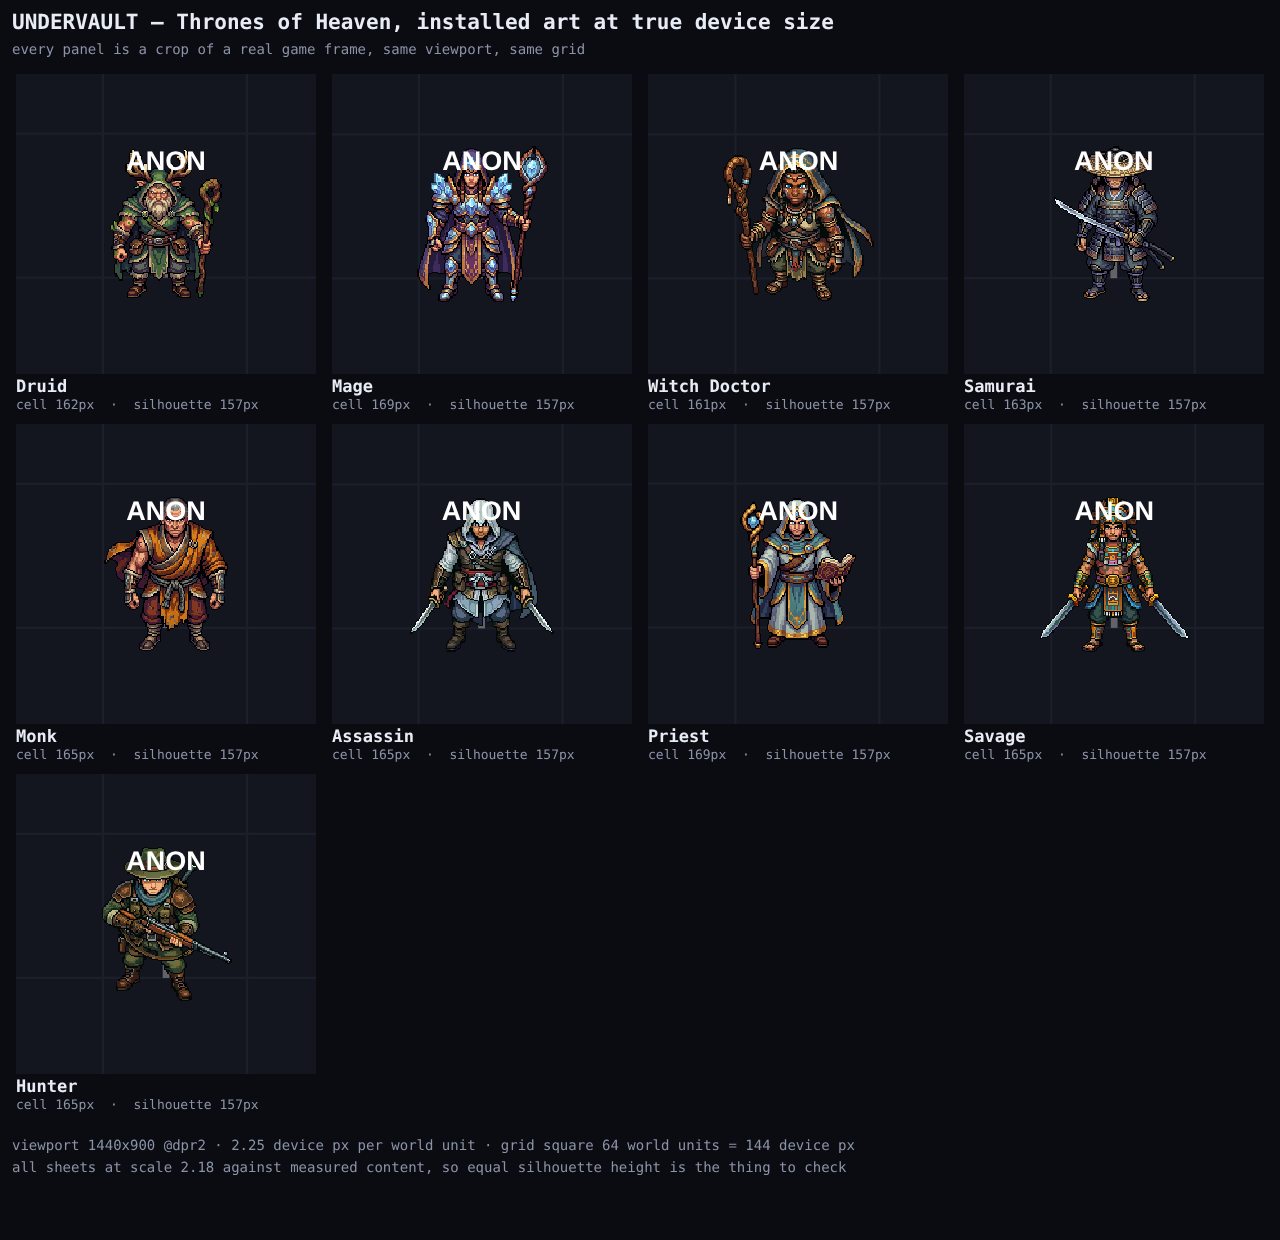
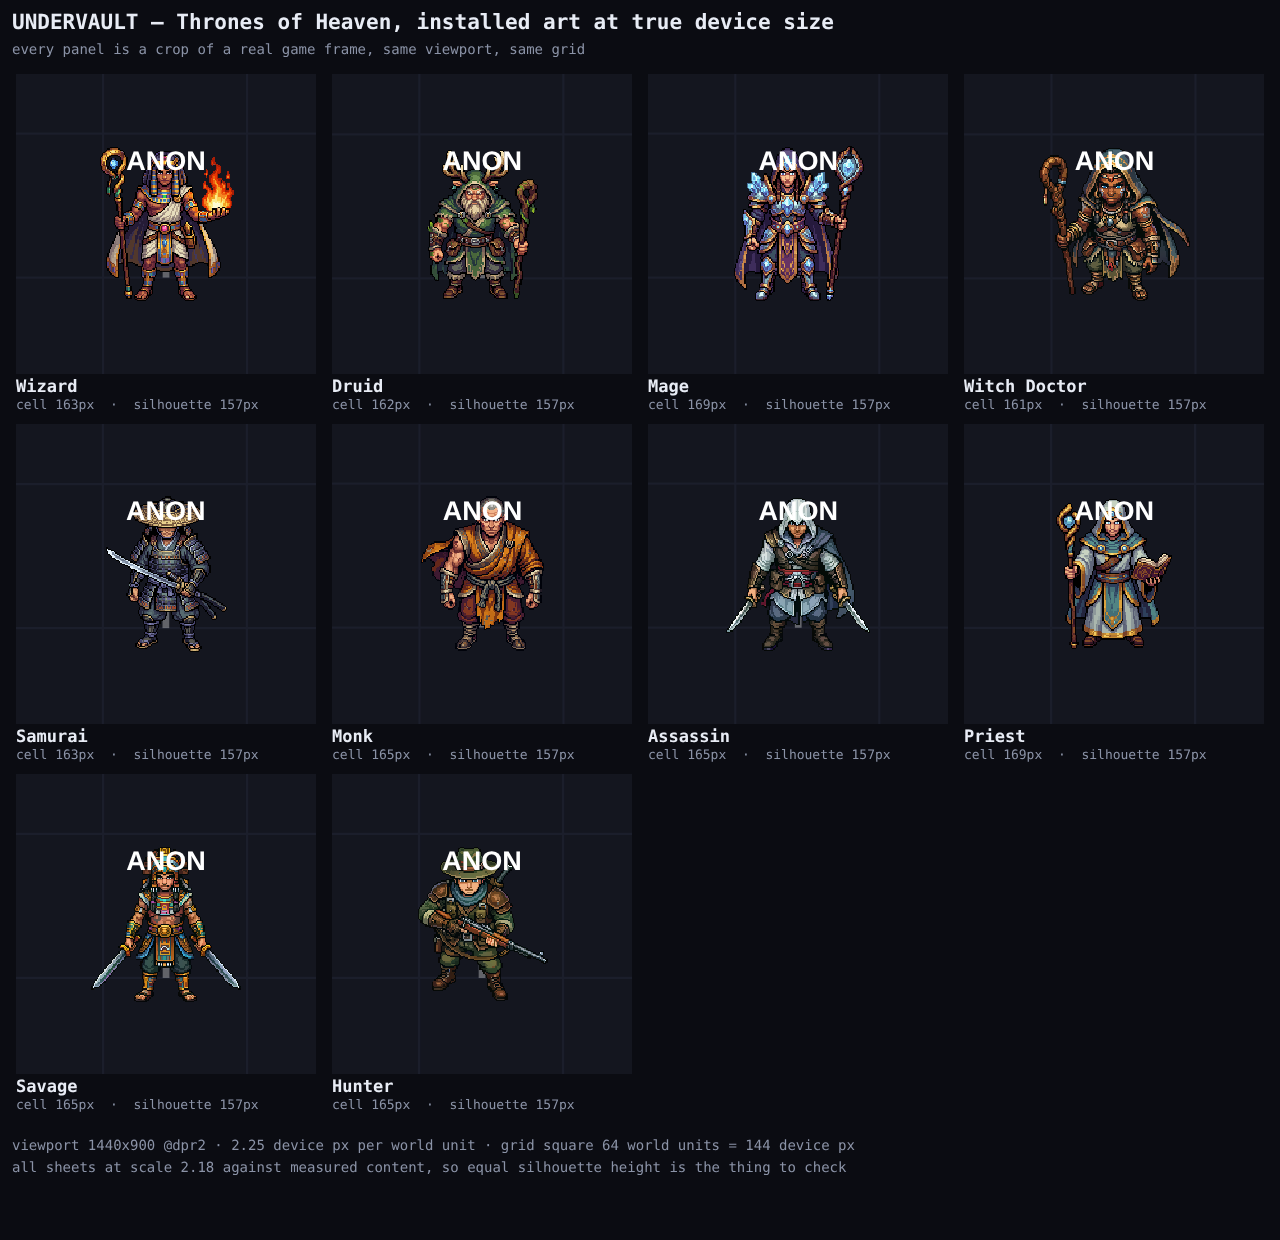
Wizard installed at 2.18 — ten characters, and the garment claim holds from both sides
Ninth of the 13. Eight 248x248 RGBA facings supplied 2026-08-05 across two
messages of four; not assembled until all eight were present. Committed verbatim
under docs/art-review/batch1/wizard/sources/ at the md5s they arrived with.

  E  e4bbf677d620884641a5d29209e3d097    W  6512512f7e2d21fcff35b066eb9a5e6b
  SE f4910ec8e0f8c73c6b79d11b5f73836a    NW 4af91db22f2b38c135cd3b075c16c812
  S  12ccb326484e55a30272c2163942cbb8    N  c207c7ced35443301b50e603e2ff4486
  SW 4f8ddc3a716c106205b80d8e8be2e38d    NE fa7ea256bfc1d8428215b27acced9c74

assets/sprites/char/toh_wizard.png, 128x1024, directions 8, content [105,123],
scale 2.18. Autocrop 248x248 -> 105x123, no resampling.

BRANCH. patch-art-pipeline was MERGED AND DELETED while the beast patch was in
flight — PR #24 took Savage through Mage into main, which is now 5abb3dd. A
merged PR is finished, so this is the same branch NAME recreated from
origin/main, not a continuation: new branch, new PR. The stale local ref was
pruned. patch-hunter-melee-beast is untouched at 2f19fe8 and is now behind main
by that whole run; it will need a merge before it lands.

SIZE. Ten sheets, cell fills 93.0-97.7%, four source canvases, cells spanning
160.7 to 168.8 device px. Silhouettes all 157.0, identical to a tenth of a pixel.
Per-facing spread 3.4%, mid-range.

GATE: structural only, passes clean, nothing waived.

THE GARMENT CLAIM NOW HOLDS FROM BOTH DIRECTIONS. Standing version after the
[…]

diff --git a/docs/art-review/batch1/README.md b/docs/art-review/batch1/README.md
@@ -1,6 +1,6 @@
 # Batch 1 — Thrones of Heaven
 
-Thirteen characters to install. **Eight are in.**
+Thirteen characters to install. **Nine are in.**
 
 | | character | id | status |
 |---|---|---|---|
@@ -12,7 +12,8 @@ Thirteen characters to install. **Eight are in.**
 | ✓ | Priest | `char.toh_priest` | installed |
 | ✓ | Monk | `char.toh_monk` | installed |
 | ✓ | Mage | `char.toh_mage` | installed |
-| | Blacksmith · Wizard · Necromancer · Bard · Sundian | | awaiting art (5) |
+| ✓ | Wizard | `char.toh_wizard` | installed |
+| | Blacksmith · Necromancer · Bard · Sundian | | awaiting art (4) |
 
 The Druid (`char.toh_druid`) is the style anchor and is not part of batch 1 —
 see [`../druid/README.md`](../druid/README.md) and
@@ -40,13 +41,14 @@ artifact of padding.
 | Hunter | 2.18 | 1.0492 | 101×122 | 164.7 | **157.0** | **−0.00%** |
 | Priest | 2.18 | 1.0756 | 88×119 | **168.8** | **157.0** | **−0.00%** |
 | Mage | 2.18 | 1.0756 | 99×119 | **168.8** | **157.0** | **−0.00%** |
+| Wizard | 2.18 | 1.0407 | 105×123 | 163.3 | **157.0** | **−0.00%** |
 
 Measured off the renderer's own `drawImage` in a real arena. Nothing is more
 than 5% off the Druid.
 
-Nine sheets, nine content boxes, cell fills from **93.0% to 97.7%**, **four**
+Ten sheets, ten content boxes, cell fills from **93.0% to 97.7%**, **four**
 source canvases: 240×240 (Mage), 244×244 (Savage, Priest), 248×248 (Druid,
-Assassin, Samurai, Monk), 256×256 (Hunter, Witch Doctor).
+Assassin, Samurai, Monk, Wizard), 256×256 (Hunter, Witch Doctor).
 
 The spread across **cells** is now 160.7 to 168.8 device px — 8.1px, opened up
 by the Priest and matched exactly by the Mage, who lands on the same 119px
@@ -78,6 +80,7 @@ would render its other seven short. Measured:
 | Priest | 118 118 114 115 119 117 113 112 | 119 | 112 | 5.9% |
 | Monk | 122 122 120 122 122 120 117 120 | 122 | 117 | 4.1% |
 | Mage | 119 119 118 118 119 117 116 117 | 119 | 116 | **2.6%** |
+| Wizard | 121 121 121 123 123 121 120 119 | 123 | 119 | **3.4%** |
 
 Four sit in the same ~5% band; the Savage (1.6%), Samurai (2.4%) and Mage (2.6%)
 are notably tighter — their poses barely change height between facings, where the
@@ -267,12 +270,31 @@ messages of four; not assembled until all eight were present.
 Assembled to `assets/sprites/char/toh_mage.png`, 128×1024, `directions: 8`,
 `content: [99, 119]`, `scale: 2.18`. Autocrop 240×240 → 110×120.
 
+### Wizard
+
+Supplied 2026-08-05, eight **248×248** RGBA PNGs, in two messages of four; not
+assembled until all eight were present.
+
+| facing | md5 | file |
+|---|---|---|
+| E | `e4bbf677d620884641a5d29209e3d097` | `wizard/sources/east.png` |
+| SE | `f4910ec8e0f8c73c6b79d11b5f73836a` | `wizard/sources/southeast.png` |
+| S | `12ccb326484e55a30272c2163942cbb8` | `wizard/sources/south.png` |
+| SW | `4f8ddc3a716c106205b80d8e8be2e38d` | `wizard/sources/southwest.png` |
+| W | `6512512f7e2d21fcff35b066eb9a5e6b` | `wizard/sources/west.png` |
+| NW | `4af91db22f2b38c135cd3b075c16c812` | `wizard/sources/northwest.png` |
+| N | `c207c7ced35443301b50e603e2ff4486` | `wizard/sources/north.png` |
+| NE | `fa7ea256bfc1d8428215b27acced9c74` | `wizard/sources/northeast.png` |
+
+Assembled to `assets/sprites/char/toh_wizard.png`, 128×1024, `directions: 8`,
+`content: [105, 123]`, `scale: 2.18`. Autocrop 248×248 → 105×123.
+
 ## What the contact sheet shows — look at this, not at numbers
 
 Size is settled and mechanical. The sheet is for everything else.
 
-**Nine characters. Five agree, four do not — and they disagree in three
-different ways.**
+**Ten characters. Six agree, four do not — and they disagree in three different
+ways.**
 
 | | | |
 |---|---|---|
@@ -285,6 +307,7 @@ different ways.**
 | **Priest** | **pale** | seafoam and cream robes, white hood, gold trim |
 | **Savage** | **high-chroma** | orange, turquoise, brass |
 | **Mage** | **cool, not earthy** | violet cloak, blue-grey plate, gold trim, pale blue crystal |
+| **Wizard** | inside *on value*, gold-heavy on hue | dark blue nemes, bronze skin, cream kilt, gold, a held flame |
 
 "Inside" means the style clause: *"muted earthy palette… strong dark outline and
 deep shadow mass"*, value mass sitting low.
@@ -311,7 +334,25 @@ the clause is asking for rather than what it forbids. Worth stating explicitly
 because "looks like it glows" and "is drawn with a glow" are different things,
 and only the second one is a defect.
 
-### The garment hypothesis: refined again, in a way that matters
+The Wizard is the one row that does not want a yes or a no. His **value mass is
+squarely inside** — near-black outlines throughout, a dark headdress and a dark
+cloak anchoring the top and back, real shadow under the drapery. His **hue is
+not**: gold, cream and bronze carry most of the figure, which is warm and
+earth-adjacent but a long way from "greens browns and leather". Calling that a
+pass or a fail would be forcing a binary onto a sheet that is plainly doing one
+of the two things well. Recorded as it reads.
+
+He also carries the roster's **first depicted light source** — an orange flame
+in the off hand — which is worth a sentence because the clause says *no glow, no
+emissive rim, no neon*. The flame is drawn, not rendered: a hard dark outline
+around the whole shape, a white-hot core made of value contrast, and **no halo,
+no falloff, and no light thrown onto the arm or the cloak that holds it**. The
+clause forbids rendering techniques, not fire. Same distinction as the Mage's
+crystals, one step further along, and still on the right side of it. The line to
+watch for is a future sheet that lights its own figure from an effect — that
+would be an emissive rim by any other name.
+
+### The garment hypothesis: confirmed from the other direction
 
 At seven characters the pattern read as **robes come back pale**. The Monk broke
 the simple version — robed, not pale — and the sharper claim became **large
@@ -344,11 +385,34 @@ That is a better claim than the one it replaces, because it now predicts two
 distinguishable outcomes instead of one, and the second is what actually
 happened.
 
-**How much to trust it: more than last time, and still not much.** It is now two
-confirming cases from three characters, one of which corrected the prediction
-rather than confirming it — which is the better kind of evidence, but it is
-still three characters. **The Wizard and the Necromancer are the remaining
-tests**, and both are plausibly robed.
+**The Wizard tests it from the opposite side, and it holds.**
+
+The Mage's back was *uninterrupted and mid-value* → it came back **flat but not
+pale**. The Wizard's front is *light and heavily interrupted* → it comes back
+**light but not flat**. His kilt is cream, which is the colour that went pale on
+the Priest and the Assassin, but it is broken by a bare torso, a belt, a sash, a
+cloak and a headdress, and it keeps its folds and its shadow.
+
+Put side by side:
+
+| | garment | interrupted? | came back |
+|---|---|---|---|
+| Priest | seafoam-cream robe, shoulder to floor | no | pale **and** flat |
+| Assassin | white hood and cloak | no | pale **and** flat |
+| Mage (back) | violet cloak over 3/4 of the figure | no | mid-value, **flat** |
+| Wizard (front) | cream kilt and drape | **yes** | light, **not flat** |
+| Monk | burnt-orange robe | **yes** | mid, not flat |
+
+That is the claim tested from both directions and surviving both: **the failure
+is the unbroken surface, not the colour.** Lightness alone does not cause it —
+the Wizard is proof — and darkness does not prevent it — the Mage is proof.
+
+**How much to trust it now: enough to act on, not enough to gate on.** Four
+confirming cases across five characters, two of which corrected an earlier
+version of the claim rather than agreeing with it. The **Necromancer is the last
+scheduled test**; if he is robed and uninterrupted and comes back with shadow
+mass, the mechanism is wrong and this section should be rewritten rather than
+patched again.
 
 Note also that the Savage remains a **separate axis** — his value mass is fine
 and his shadow mass is fine; it is chroma. Three unrelated ways to fall outside
@@ -368,12 +432,17 @@ anything:
 | Priest | pale | pale | ✓ |
 | Monk | inside clause | inside clause | ✓ |
 | Mage | *no prediction entered* | **cool-hue outlier** | — |
+| Wizard | *no prediction entered* | inside on value, gold on hue | — |
 
-Still three of four, with the miss in the reassuring direction. The Mage row is
-deliberately empty: after the Assassin miss the standing rule became **source
+Still three of four, with the miss in the reassuring direction. The last two rows
+are deliberately empty: after the Assassin miss the standing rule became **source
 files are a guess; the sheet is the evidence**, so nothing was called before the
 sheet rendered. That costs a data point and is the right trade — a prediction
 made in order to have a row to fill in is not a prediction.
+
+Note that the source images for both were *visible in the conversation* before
+the sheet existed, which is exactly the temptation the rule is for. Looking at a
+240px PNG in a chat window is the same guess the Assassin miss came from.
 
 **Nothing has been changed on account of any of this.** All three outliers read
 well on the arena floor. The open question is whether the roster should look
